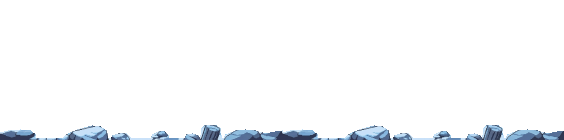
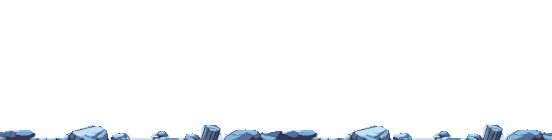
雪山場景: 背景/前景/天空遮罩接縫改成柔和融合(寬度 564→552)
Claude-Session: https://claude.ai/code/session_01VgWDma9wRVh94nUCbzKnsT

Changed region(s): [[0.0616, 0.8857, 1.0, 1.0], [0.0, 0.9429, 0.0616, 1.0]]

diff --git a/battle/index.html b/battle/index.html
@@ -173,7 +173,7 @@ var BG={
  B:{src:AS+'bg_02.png',fg:AS+'fg_02.png',band:94,bw:282,bh:140,sky:'cave',fx:'cave',gl:{b:[],f:[]}},
  C:{src:AS+'bg_03.png',fg:AS+'fg_03.png',mask:AS+'sky_mask_03.png',band:94,bw:282,bh:140,sky:'dusk',cy:.62},
  D:{src:AS+'bg_04.png?v=2',fg:AS+'fg_04.png?v=2',band:94,bw:564,bh:140,sky:'cave',fx:'lava'},
- E:{src:AS+'bg_05.png',fg:AS+'fg_05.png',mask:AS+'sky_mask_05.png',band:94,bw:564,bh:140,sky:'ice',cy:.22,fx:'snow'},
+ E:{src:AS+'bg_05.png?v=2',fg:AS+'fg_05.png?v=2',mask:AS+'sky_mask_05.png?v=2',band:94,bw:552,bh:140,sky:'ice',cy:.22,fx:'snow'},
  F:{src:AS+'bg_06.png',fg:AS+'fg_06.png',band:94,bw:564,bh:140,sky:'cave',fx:'crypt',gl:{b:[],f:[]}},
  G:{src:AS+'bg_07.png',fg:null,band:94,bw:282,bh:140,sky:'cave',fx:'throne'}};
 var SCN=[['A','森林'],['B','礦坑'],['C','沙漠'],['F','墓穴'],['E','雪山'],['D','熔岩'],['G','王座廳']];
